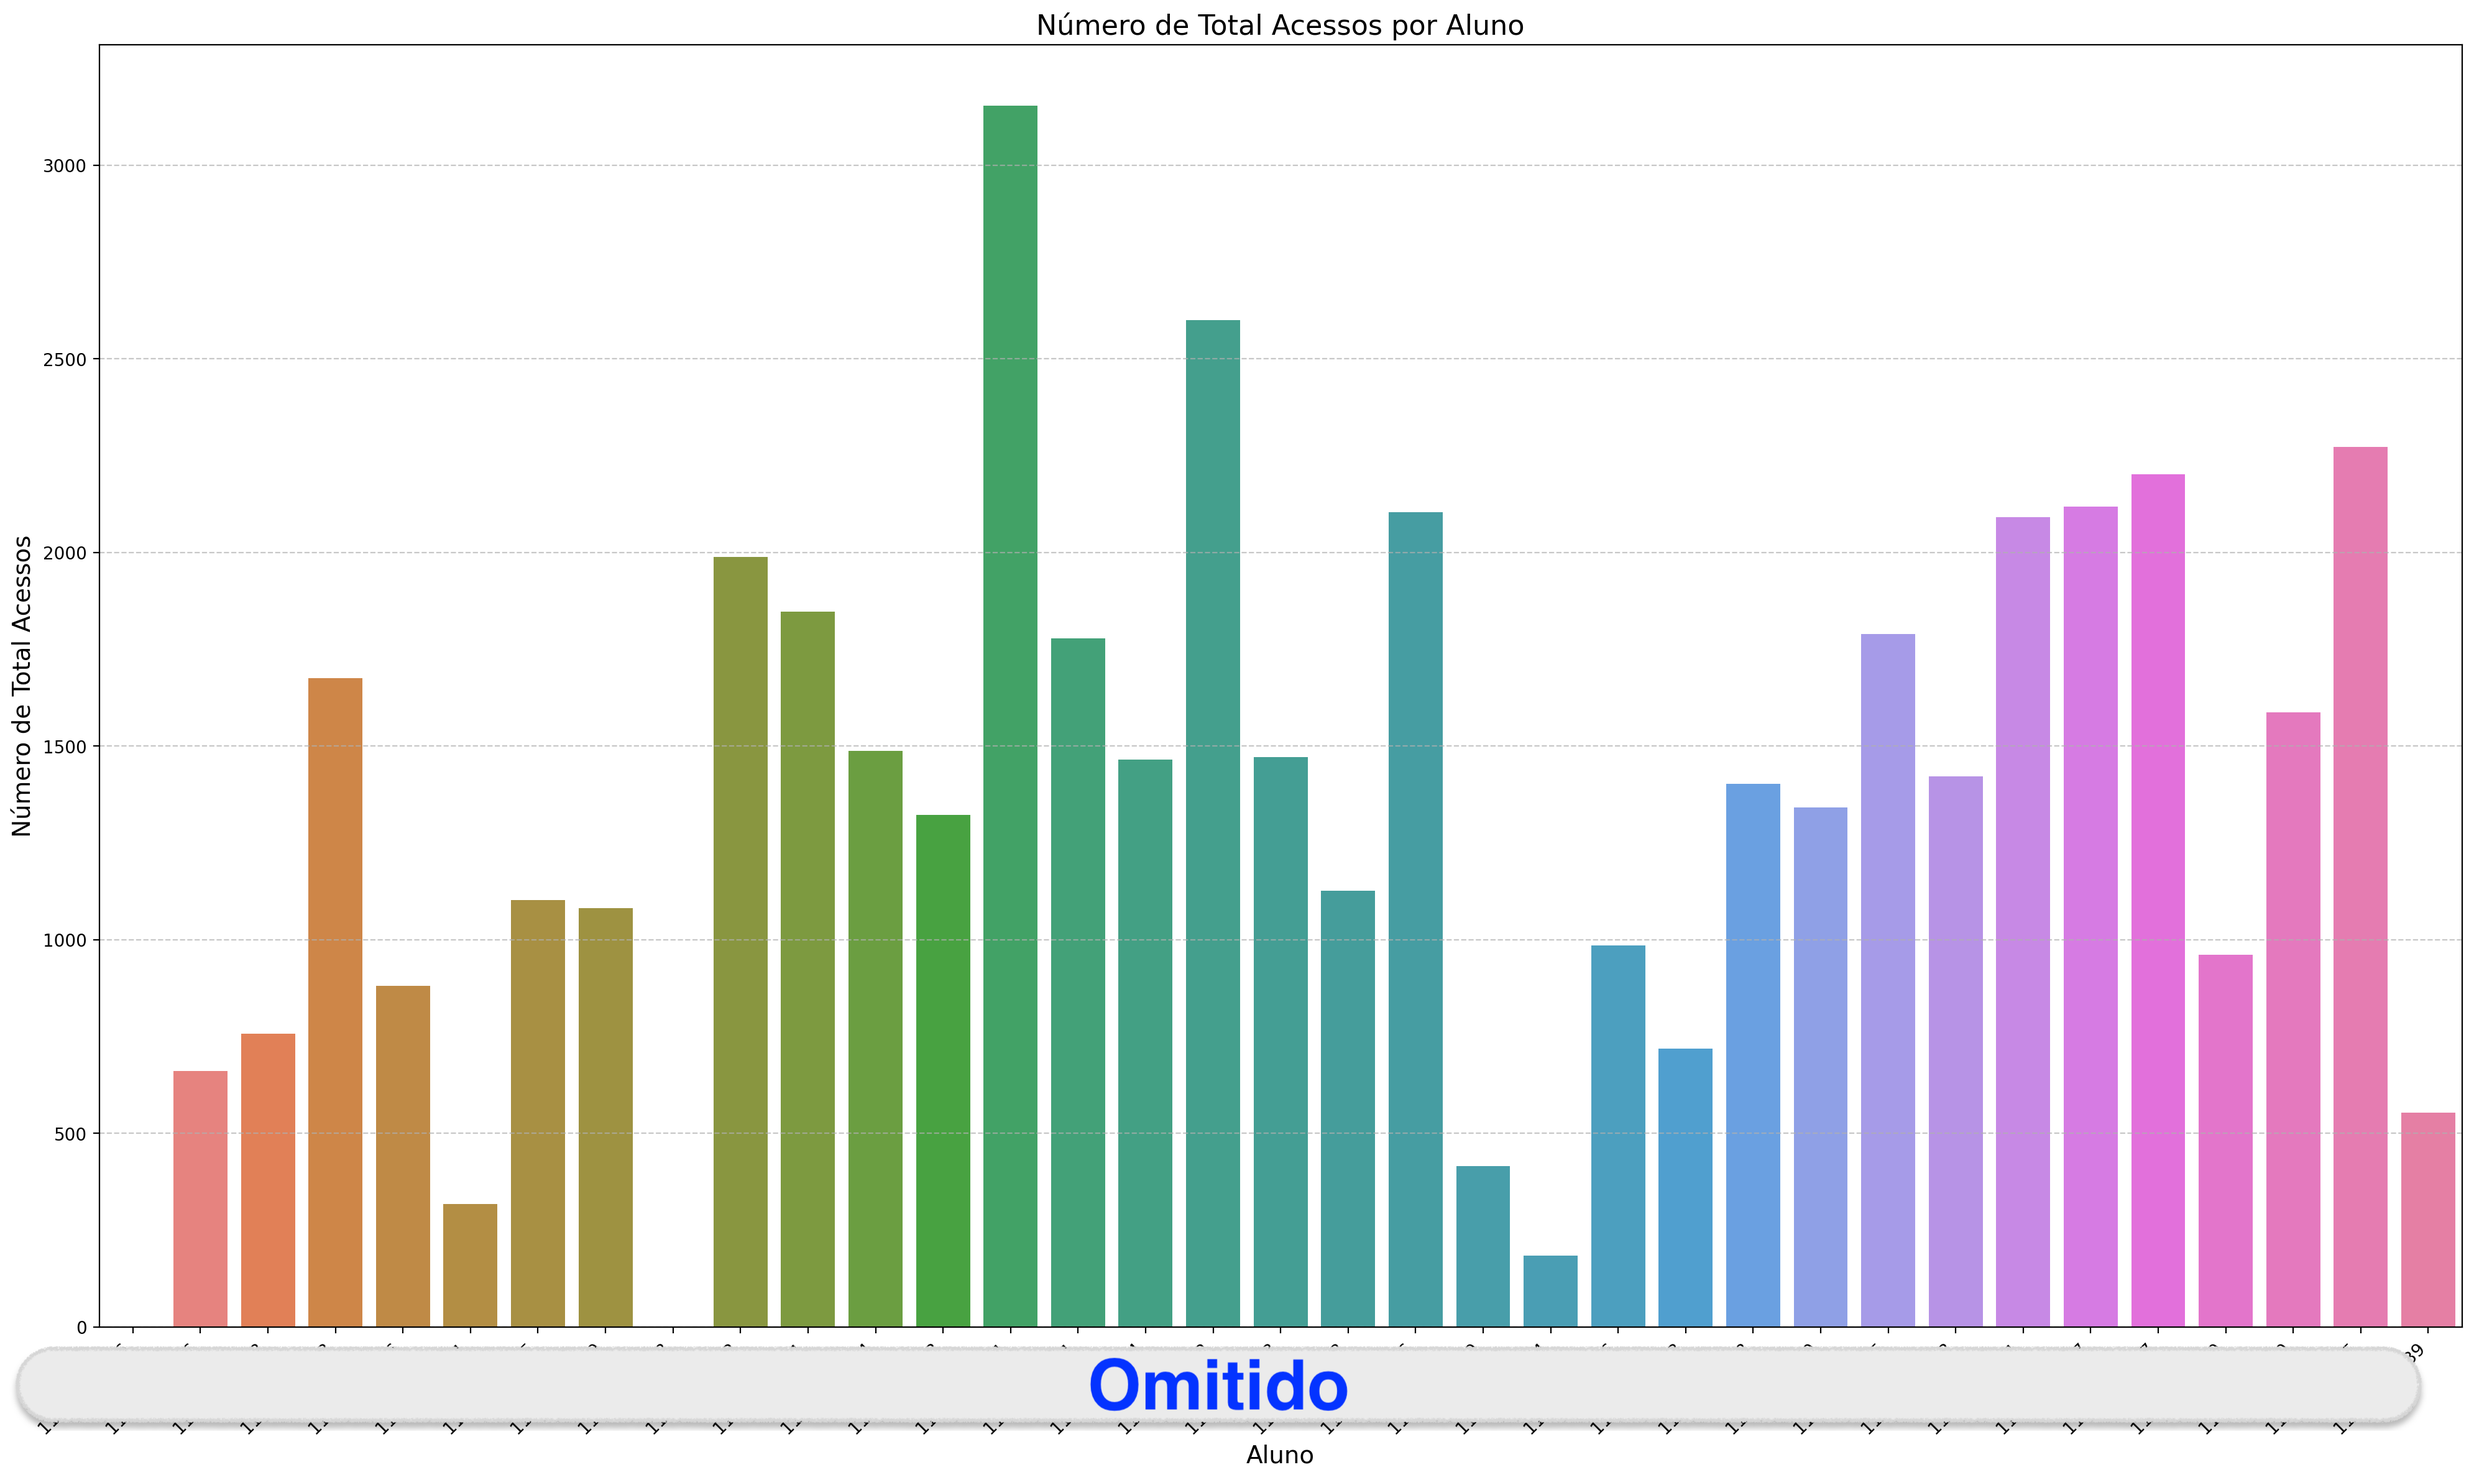
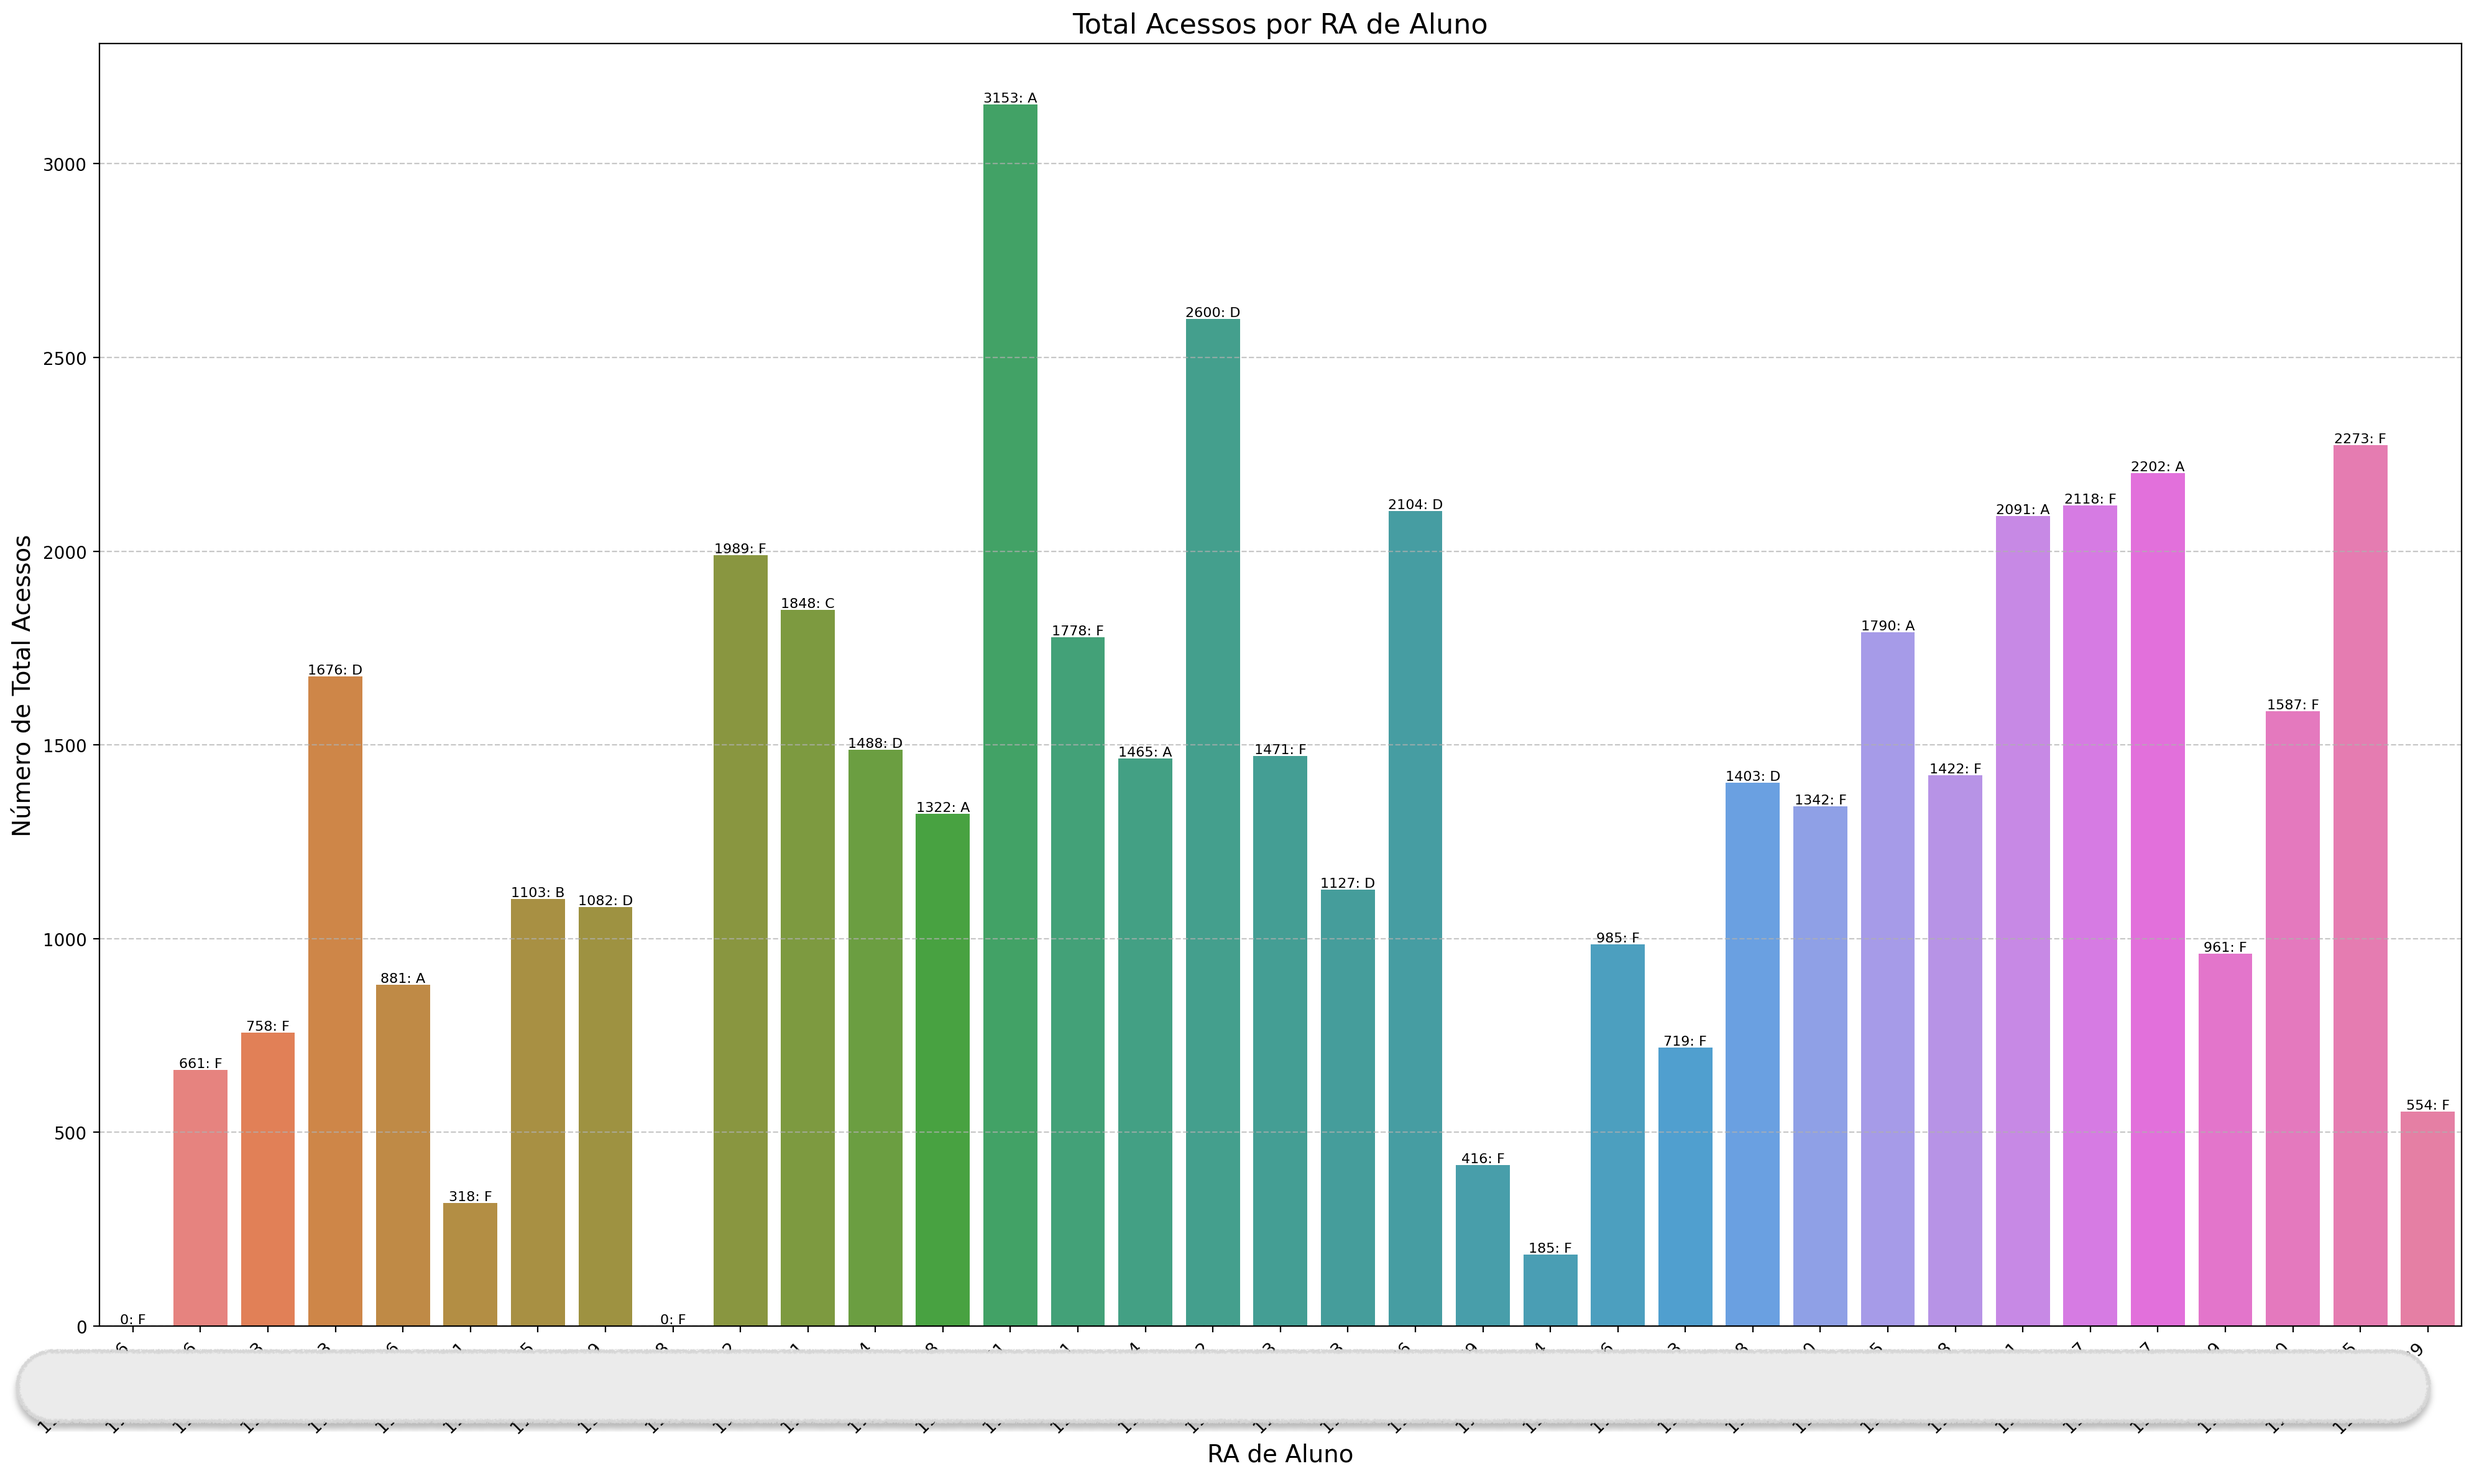
v0

Changed region(s): [[0.4362, 0.9021, 0.5608, 0.9954], [0.405, 0.0, 0.6231, 0.0311], [0.9658, 0.9332, 0.997, 0.9643]]

diff --git a/script.py b/script.py
@@ -10,7 +10,6 @@ from datetime import datetime, timedelta
 import json
 import pandas as pd
 import sys
-import subprocess
 import seaborn as sns
 import numpy as np
 import matplotlib.pyplot as plt
@@ -171,9 +170,10 @@ if data["omit_data"] == "on":
     df_logs["Usuário afetado"] = "-"
     df_logs["Descrição"] = "-"
 
-    # Substituir endereços IP que não começam com "172.17.14" por "omitted"
+    # Substituir endereços IP que não começam com data["classes"][0]["ipPrefix"] por "omitted"
     df_logs.loc[
-        ~df_logs["endereço IP"].astype(str).str.startswith("172.17.14").fillna(False), "endereço IP"] = "omitted"
+        ~df_logs["endereço IP"].astype(str).str.startswith(data["classes"][0]["ipPrefix"]).fillna(
+            False), "endereço IP"] = "omitted"
 
     # Substituir nomes completos conforme o mapeamento do dicionário
     df_logs["Nome completo"] = df_logs["Nome completo"].map(mapping_dict).fillna(df_logs["Nome completo"])
@@ -245,6 +245,8 @@ for z, linha in df_faltas.iterrows():  ###### para cada aluno da turma
                     nova_linha[dia_aula.split()[0]] = len(filtro)
                     print(len(filtro), end=" ")
 
+        nova_linha["Acessos_Sem_Filtros"] = int(len(df_filtro))
+
     print()
     # Converter a nova linha em DataFrame
     nova_linha_df = pd.DataFrame([nova_linha])
@@ -264,7 +266,7 @@ for col_antiga, col_nova in novos_nomes_colunas.items():
     df_lista_presenca.rename(columns={col_antiga: col_nova}, inplace=True)
 
 # df_lista_participa calcula a Total_Presencas por Nome
-df_lista_presenca['Total_Presencas'] = 2 * (df_lista_presenca.iloc[:, 3:] > 0).sum(axis=1)
+df_lista_presenca['Total_Presencas'] = 2 * (df_lista_presenca.iloc[:, 3:-1] > 0).sum(axis=1)
 
 # número máximo de presença
 MAX_FALTAS = df_lista_presenca['Total_Presencas'].max()
@@ -284,12 +286,10 @@ df_lista_presenca = df_merged.drop('Resultado', axis=1)
 # salva arquivo
 df_lista_presenca.to_csv(arq_lista_presenca, index=False)
 
+
 ########################################################################
 # Plotar gráfico RA vs Participação
 ########################################################################
-
-import numpy as np
-
 
 def somar_acessos(linha):
     # Verificar se a entrada é um DataFrame ou uma Series
@@ -298,7 +298,7 @@ def somar_acessos(linha):
         linha = pd.DataFrame(linha).T
 
     # Obter as colunas de acessos
-    acessos = linha.iloc[:, 4:-2]  # Excluir as duas últimas colunas
+    acessos = linha.iloc[:, 4:-4]  # Excluir as duas últimas colunas
 
     # Converter os valores das colunas de acessos para numéricos
     # Substituir NaN por 0 antes da conversão
@@ -316,63 +316,109 @@ df_lista_presenca['Total_Acessos'] = df_lista_presenca.apply(somar_acessos, axis
 
 # print(df_lista_presenca.head())
 
-def desenhar_grafico(data, min_absences, filter_field, tipo, metrica):
+import matplotlib.pyplot as plt
+import seaborn as sns
+import numpy as np
+
+import matplotlib.pyplot as plt
+import seaborn as sns
+from matplotlib import patches
+
+def desenhar_grafico(data, min_absences, filter_field, coluna_y, coluna_x):
     # Definir uma paleta de cores mais agradável
     cores = sns.color_palette("husl", len(data))
 
-    # Definir o nome da coluna de interesse para o eixo x
-    coluna_x = 'RA' if tipo == 'RA' else 'Nome'
-
-    # Definir o nome da métrica para o eixo y
-    coluna_y = 'Total_Presencas' if metrica == 'Total_Presencas' else 'Total_Acessos'
-
     # Criar o gráfico de barras
     plt.figure(figsize=(20, 12))
-    #ax = sns.barplot(x=coluna_x, y=coluna_y, data=data, palette=cores)
     ax = sns.barplot(x=coluna_x, y=coluna_y, hue=coluna_x, data=data, palette=cores, legend=False)
+    # Calcular a largura total do eixo x
+    largura_total_x = ax.get_xlim()[1] - ax.get_xlim()[0]
+    # Calcular o número de barras (categorias) no eixo x
+    num_barras = len(data[coluna_x].unique())
+    # Calcular a largura de cada barra
+    largura_barra = 0.3*(largura_total_x / num_barras)
 
     # Adicionar grid apenas na horizontal
     plt.grid(axis='y', linestyle='--', alpha=0.7)
 
     # Definir título e rótulos dos eixos
-    titulo = f'Número de {metrica.replace("_", " ").replace("ca", "ça")} por Aluno'
+    titulo = f'{coluna_y.replace("_", " ").replace("ca", "ça")} por {coluna_x} de Aluno'
     if filter_field != 'Tudo':
         titulo += f' (filtro: {filter_field})'
 
+    if coluna_y == 'Acessos_Sem_Filtros':
+        titulo += ' - Hachura indica acessos fora da aula'
+
+        print( titulo )
+
     plt.title(titulo, fontsize=16)
-    plt.xlabel('Aluno', fontsize=14)
-    plt.ylabel(f'Número de {metrica.replace("_", " ").replace("ca", "ça")}', fontsize=14)
-    MAX_PRESENCA = data['Total_Presencas'].max()
+    plt.xlabel(f'{coluna_x} de Aluno', fontsize=14)
+    plt.ylabel(f'Número de {coluna_y.replace("_", " ").replace("ca", "ça")}', fontsize=14)
     # Adicionar linha de corte horizontal vermelha (apenas para Total_Presencas)
-    if metrica == 'Total_Presencas':
+    if coluna_y == 'Total_Presencas':
+        MAX_PRESENCA = data[coluna_y].max()
         ax.axhline(y=(MAX_PRESENCA - min_absences), color='red', linestyle='--',
                    label=f'Limite Mínimo de Faltas ({min_absences})')
         ax.legend()
 
+    max_y = data[coluna_y].max()
+
     # Adicionar rótulos com o número de presenças/acessos em cada barra
-    if coluna_x == 'Nome':
+    if coluna_x == "RA":
+        cont = 0
+        for index, row in data.sort_values(by='RA').iterrows():
+            conc = ""
+            if str(row["Conceito"]) != "-":
+                conc = ": " + str(row["Conceito"])
+            ax.text(cont, row[coluna_y] + 0.1, str(row[coluna_y]) + conc, ha='center', va='bottom',
+                    fontsize=8)
+
+            if coluna_y == 'Acessos_Sem_Filtros' and row['Total_Acessos'] > 0:
+                plt.hlines(y=row['Total_Acessos'], xmin=cont - largura_barra, xmax=cont + largura_barra, color='red')
+                ax.text(cont, row['Total_Acessos'] - int(max_y*0.02), str(int(row[coluna_y])), ha='center', va='bottom', fontsize=8)
+
+                # Hachurar a área entre y=row['Total_Acessos'] e y=row[coluna_y]
+                plt.fill_between([cont - largura_barra, cont + largura_barra], row['Total_Acessos'], row[coluna_y], color='red', alpha=0.3)
+
+
+            cont += 1
+    else:
         for index, row in data.iterrows():
             conc = ""
             if str(row["Conceito"]) != "-":
                 conc = ": " + str(row["Conceito"])
             ax.text(index, row[coluna_y] + 0.1, str(row[coluna_y]) + conc, ha='center', va='bottom', fontsize=8)
 
+            if coluna_y == 'Acessos_Sem_Filtros' and row['Total_Acessos'] > 0:
+                plt.hlines(y=row['Total_Acessos'], xmin=index - largura_barra, xmax=index + largura_barra, color='red')
+                ax.text(index, row['Total_Acessos'] - int(max_y*0.02), str(int(row[coluna_y])), ha='center', va='bottom', fontsize=8)
+
+                # Hachurar a área entre y=row['Total_Acessos'] e y=row[coluna_y]
+                plt.fill_between([index - largura_barra, index + largura_barra], row['Total_Acessos'], row[coluna_y], color='red', alpha=0.3)
+
+
     # Ajustar rotação dos rótulos do eixo x
     plt.xticks(rotation=45, ha='right', fontsize=10)
 
     plt.tight_layout()
-    plt.savefig(f"{userPath}report/alunos_{metrica}_{tipo}.png", dpi=200, bbox_inches="tight")
+    nome_arquivo = f"{userPath}report/alunos_{coluna_y}_{coluna_x}.png"
+    plt.savefig(nome_arquivo, dpi=200, bbox_inches="tight")
     plt.close()
+    print("Arquivo gerado:", nome_arquivo)
+
+
 
 min_absences = int(data["min_absences"])
 
 filter_field = data["filter_field"]
 
 # Exemplo de uso:
-desenhar_grafico(df_lista_presenca, min_absences, filter_field, tipo='Nome', metrica='Total_Presencas')
-desenhar_grafico(df_lista_presenca, min_absences, filter_field, tipo='Nome', metrica='Total_Acessos')
-desenhar_grafico(df_lista_presenca, min_absences, filter_field, tipo='RA', metrica='Total_Presencas')
-desenhar_grafico(df_lista_presenca, min_absences, filter_field, tipo='RA', metrica='Total_Acessos')
+desenhar_grafico(df_lista_presenca, min_absences, filter_field, 'Total_Presencas', 'Nome')
+desenhar_grafico(df_lista_presenca, min_absences, filter_field, 'Total_Presencas', 'RA')
+desenhar_grafico(df_lista_presenca, min_absences, filter_field, 'Total_Acessos', 'Nome')
+desenhar_grafico(df_lista_presenca, min_absences, filter_field, 'Total_Acessos', 'RA')
+desenhar_grafico(df_lista_presenca, min_absences, filter_field, 'Acessos_Sem_Filtros', 'Nome')
+desenhar_grafico(df_lista_presenca, min_absences, filter_field, 'Acessos_Sem_Filtros', 'RA')
 
 ########################################################################
 # Atualiza colunas Faltas Resultado em df_faltas

diff --git a/upload.php b/upload.php
@@ -193,8 +193,10 @@ echo "
 // Crie a string do caminho do relatório para cada imagem
 $alunosTotalAcessosNome = $reportDir . "alunos_Total_Acessos_Nome.png";
 $alunosTotalPresencasNome = $reportDir . "alunos_Total_Presencas_Nome.png";
+$alunosAcessosSemFiltrosNome = $reportDir . "alunos_Acessos_Sem_Filtros_Nome.png";
 $alunosTotalAcessosRA = $reportDir . "alunos_Total_Acessos_RA.png";
 $alunosTotalPresencasRA = $reportDir . "alunos_Total_Presencas_RA.png";
+$alunosAcessosSemFiltrosRA = $reportDir . "alunos_Acessos_Sem_Filtros_RA.png";
 
 echo "<p></p>
 <div style='background-color: #f9f9f9; font-size:9px; padding: 20px; border-radius: 10px; box-shadow: 0 4px 8px rgba(0, 0, 0, 0.1); max-width: 900px; width: 95%; margin: 0 auto;'>
@@ -212,6 +214,11 @@ echo "<p></p>
       </div>
 
       <div style=\"margin: 10px;\">
+        <img src=\"$alunosAcessosSemFiltrosNome\" alt=\"Alunos - Total Geral Acessos - Nome\" style=\"max-width: 800px; height: auto;\">
+        <p style=\"text-align: center;\">Alunos - Total Presenças - RA</p>
+      </div>
+
+      <div style=\"margin: 10px;\">
         <img src=\"$alunosTotalAcessosRA\" alt=\"Alunos - Total Acessos - RA\" style=\"max-width: 800px; height: auto;\">
         <p style=\"text-align: center;\">Alunos - Total Acessos - RA</p>
       </div>
@@ -220,6 +227,12 @@ echo "<p></p>
         <img src=\"$alunosTotalPresencasRA\" alt=\"Alunos - Total Presenças - RA\" style=\"max-width: 800px; height: auto;\">
         <p style=\"text-align: center;\">Alunos - Total Presenças - RA</p>
       </div>
+
+      <div style=\"margin: 10px;\">
+        <img src=\"$alunosAcessosSemFiltrosRA\" alt=\"Alunos - Total Geral Acessos - RA\" style=\"max-width: 800px; height: auto;\">
+        <p style=\"text-align: center;\">Alunos - Total Presenças - RA</p>
+      </div>
+
     </div>
   </p>
 </div>

diff --git a/index.php b/index.php
@@ -109,9 +109,10 @@
             Os próximos passos ensinam como obter esses arquivos.
             Ao final desta página é possível gerar esses arquivos e um relatório semelhante às imagens
             <a href="modelos/report/ex01a.png" target="_blank">ex01a</a>,
-            <a href="modelos/report/ex01b.png" target="_blank">ex01b</a> e
-            <a href="modelos/report/ex01c.png" target="_blank">ex01c</a> de forma automática.
-            
+            <a href="modelos/report/ex01b.png" target="_blank">ex01b</a>,
+            <a href="modelos/report/ex01c.png" target="_blank">ex01c</a> e
+            <a href="modelos/report/ex01d.png" target="_blank">ex01d</a> de forma automática.
+
         </h4>
 
         <hr />
